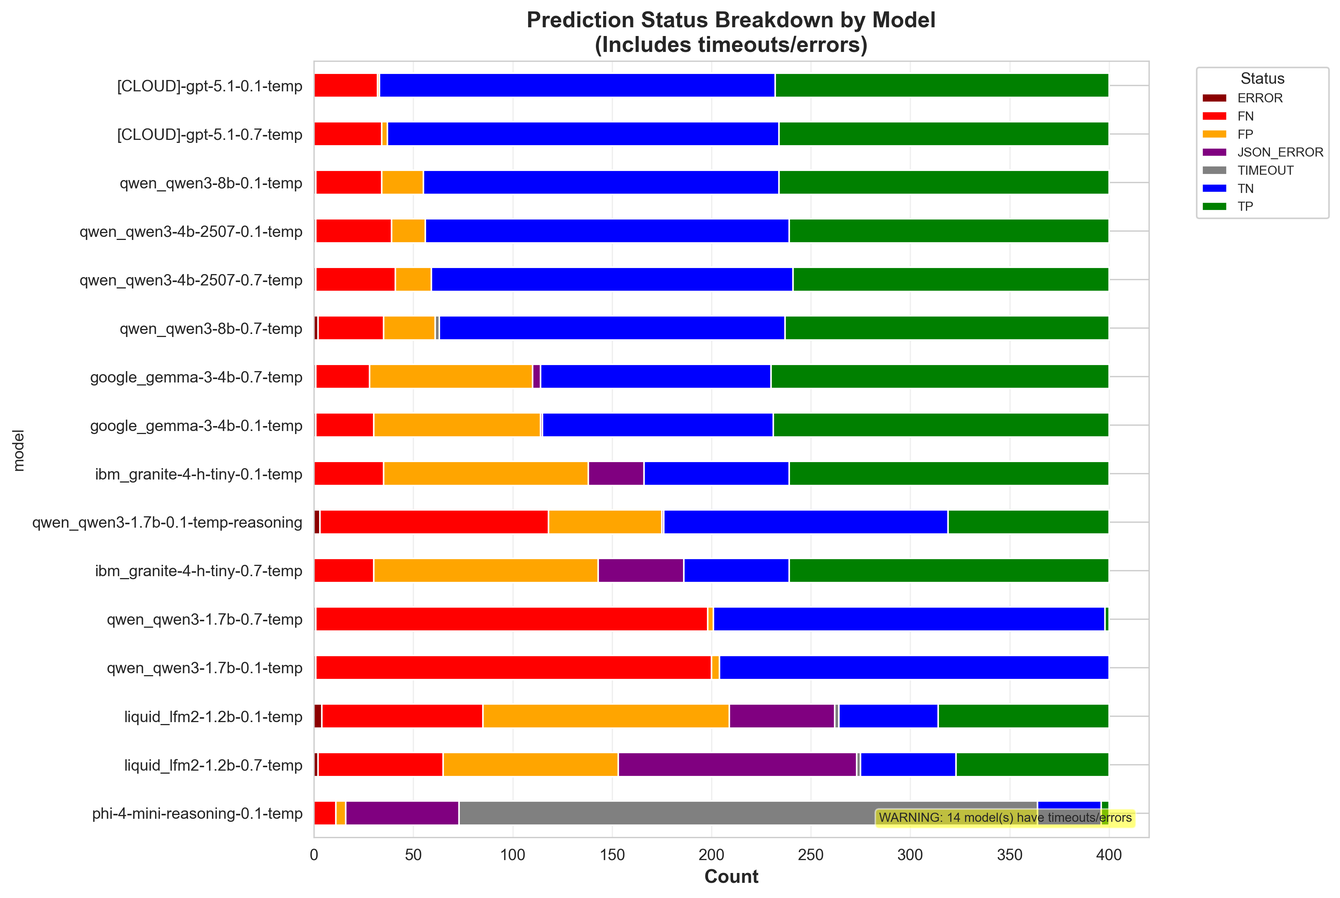
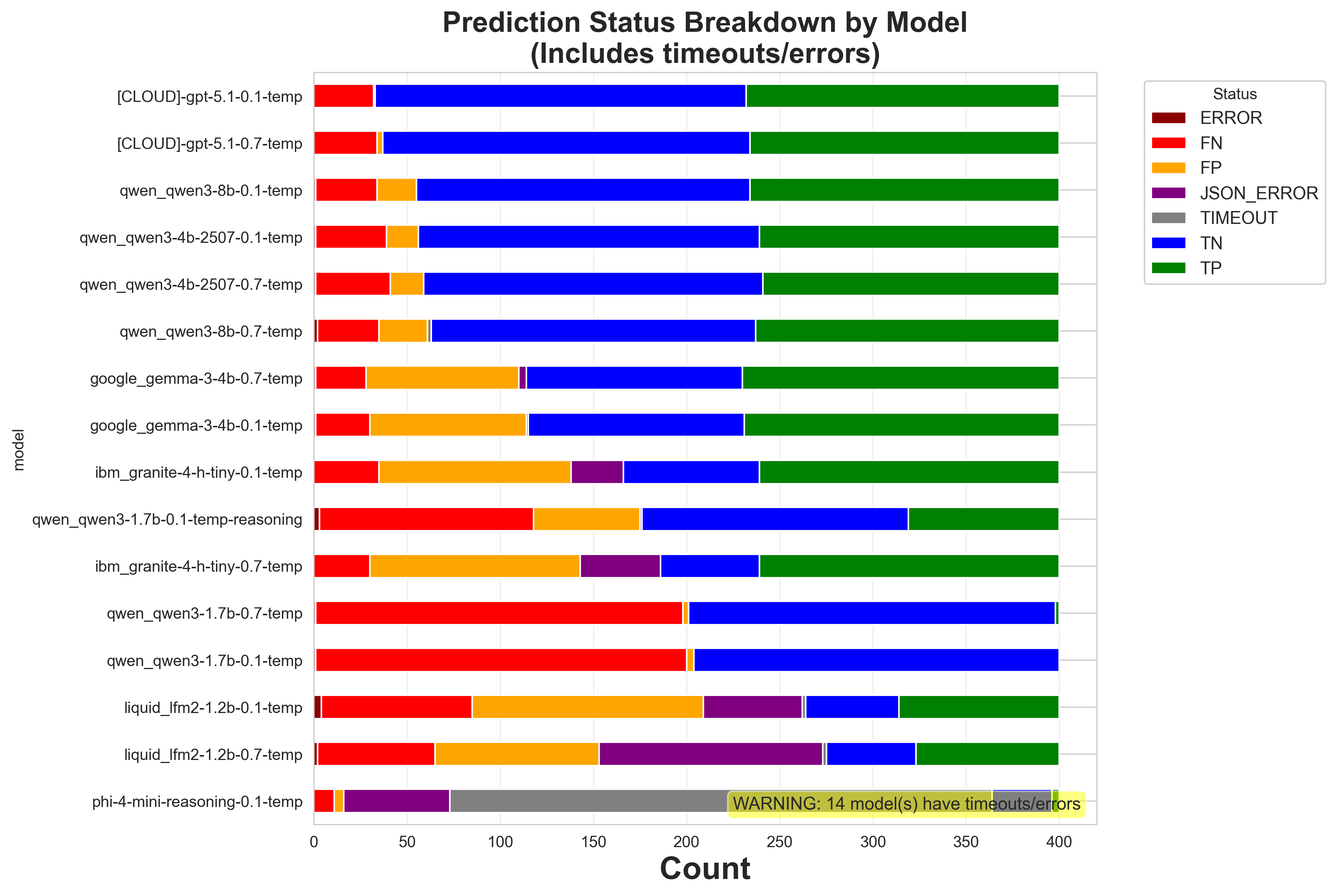
Increase font sizes across all visualizations for better readability

diff --git a/benchmark-analysis/analyze_benchmarks.py b/benchmark-analysis/analyze_benchmarks.py
@@ -414,9 +414,9 @@ def plot_accuracy_comparison(df: pd.DataFrame, output_dir: str, model_colors: Di
     bars = ax.barh(df_sorted['model'], accuracy_values, color=bar_colors, edgecolor='black', linewidth=0.5)
     for i, (idx, row) in enumerate(df_sorted.iterrows()):
         acc_val = accuracy_values.iloc[i]
-        ax.text(acc_val + 0.01, i, f"{acc_val:.2%}", va='center', fontsize=9)
-    ax.set_xlabel('Accuracy', fontsize=12, fontweight='bold')
-    ax.set_title('Overall Accuracy\n(Models ordered by bestness score)', fontsize=14, fontweight='bold')
+        ax.text(acc_val + 0.01, i, f"{acc_val:.2%}", va='center', fontsize=20)
+    ax.set_xlabel('Accuracy', fontsize=20, fontweight='bold')
+    ax.set_title('Overall Accuracy\n(Models ordered by bestness score)', fontsize=18, fontweight='bold')
     ax.set_xlim(0, max(1.1, accuracy_values.max() * 1.1))
     ax.grid(axis='x', alpha=0.3)
     plt.tight_layout()
@@ -439,12 +439,12 @@ def plot_accuracy_comparison(df: pd.DataFrame, output_dir: str, model_colors: Di
         recall_val = recall_values.loc[idx]
         ax.scatter(recall_val, prec_val, s=200, alpha=0.7, 
                    color=model_color, label=row['model'], edgecolors='black', linewidth=0.5)
-    ax.set_xlabel('Sensitivity (Recall)', fontsize=12, fontweight='bold')
-    ax.set_ylabel('Precision', fontsize=12, fontweight='bold')
-    ax.set_title('Precision vs Sensitivity (Recall)', fontsize=14, fontweight='bold')
+    ax.set_xlabel('Sensitivity (Recall)', fontsize=20, fontweight='bold')
+    ax.set_ylabel('Precision', fontsize=20, fontweight='bold')
+    ax.set_title('Precision vs Sensitivity (Recall)', fontsize=18, fontweight='bold')
     ax.set_xlim(0, 1)
     ax.set_ylim(0, 1)
-    ax.legend(bbox_to_anchor=(1.05, 1), loc='upper left', fontsize=8, framealpha=0.9, markerscale=0.6)
+    ax.legend(bbox_to_anchor=(1.05, 1), loc='upper left', fontsize=11, framealpha=0.9, markerscale=0.6)
     ax.grid(alpha=0.3)
     plt.tight_layout()
     plt.savefig(os.path.join(accuracy_dir, 'precision_vs_recall.png'), dpi=300, bbox_inches='tight')
@@ -465,9 +465,9 @@ def plot_accuracy_comparison(df: pd.DataFrame, output_dir: str, model_colors: Di
     bars = ax.barh(df_sorted_f1['model'], f1_values, color=bar_colors_f1, edgecolor='black', linewidth=0.5)
     for i, (idx, row) in enumerate(df_sorted_f1.iterrows()):
         f1_val = f1_values.iloc[i]
-        ax.text(f1_val + 0.01, i, f"{f1_val:.2%}", va='center', fontsize=9)
-    ax.set_xlabel('F1 Score', fontsize=12, fontweight='bold')
-    ax.set_title('F1 Score Comparison\n(Models ordered by bestness score)', fontsize=14, fontweight='bold')
+        ax.text(f1_val + 0.01, i, f"{f1_val:.2%}", va='center', fontsize=20)
+    ax.set_xlabel('F1 Score', fontsize=20, fontweight='bold')
+    ax.set_title('F1 Score Comparison\n(Models ordered by bestness score)', fontsize=18, fontweight='bold')
     ax.set_xlim(0, max(1.1, f1_values.max() * 1.1))
     ax.grid(axis='x', alpha=0.3)
     plt.tight_layout()
@@ -490,12 +490,12 @@ def plot_accuracy_comparison(df: pd.DataFrame, output_dir: str, model_colors: Di
         fnr_val = fnr_values.loc[idx]
         ax.scatter(fnr_val, fpr_val, s=200, alpha=0.7, 
                    color=model_color, label=row['model'], edgecolors='black', linewidth=0.5)
-    ax.set_xlabel('False Negative Rate (FNR)', fontsize=12, fontweight='bold')
-    ax.set_ylabel('False Positive Rate (FPR)', fontsize=12, fontweight='bold')
-    ax.set_title('Error Rates: FPR vs FNR', fontsize=14, fontweight='bold')
+    ax.set_xlabel('False Negative Rate (FNR)', fontsize=20, fontweight='bold')
+    ax.set_ylabel('False Positive Rate (FPR)', fontsize=20, fontweight='bold')
+    ax.set_title('Error Rates: FPR vs FNR', fontsize=18, fontweight='bold')
     ax.set_xlim(0, 1)
     ax.set_ylim(0, 1)
-    ax.legend(bbox_to_anchor=(1.05, 1), loc='upper left', fontsize=8, framealpha=0.9, ncol=1, markerscale=0.6)
+    ax.legend(bbox_to_anchor=(1.05, 1), loc='upper left', fontsize=11, framealpha=0.9, ncol=1, markerscale=0.6)
     ax.grid(alpha=0.3)
     plt.tight_layout()
     plt.savefig(os.path.join(accuracy_dir, 'fpr_vs_fnr.png'), dpi=300, bbox_inches='tight')
@@ -516,7 +516,7 @@ def plot_confusion_matrix_comparison(df: pd.DataFrame, output_dir: str):
     rows = (n_models + cols - 1) // cols  # Ceiling division
     
     fig, axes = plt.subplots(rows, cols, figsize=(5*cols, 5*rows))
-    fig.suptitle('Confusion Matrix Comparison\n(Models ordered by overall bestness score)', fontsize=16, fontweight='bold')
+    fig.suptitle('Confusion Matrix Comparison\n(Models ordered by overall bestness score)', fontsize=20, fontweight='bold')
     
     # Flatten axes array for easier iteration
     # Handle different return types from subplots (single axes, 1D array, or 2D array)
@@ -595,7 +595,7 @@ def plot_latency_comparison(df: pd.DataFrame, output_dir: str, model_colors: Dic
     outlier_models = df_sorted[df_sorted['avg_latency'] > outlier_threshold]
     if len(outlier_models) > 0:
         ax.text(0.98, 0.02, f'Note: {len(outlier_models)} model(s) have outlier latency', 
-                transform=ax.transAxes, fontsize=8, ha='right',
+                transform=ax.transAxes, fontsize=11, ha='right',
                 bbox=dict(boxstyle='round', facecolor='yellow', alpha=0.5))
     
     # Add value labels on bars
@@ -609,7 +609,7 @@ def plot_latency_comparison(df: pd.DataFrame, output_dir: str, model_colors: Dic
         # Position label at the end of the bar
         label_x = latency_val + max(0.05, max_latency * 0.02)
         ax.text(label_x, i, label, 
-               va='center', fontsize=9)
+               va='center', fontsize=20)
     
     plt.tight_layout()
     plt.savefig(os.path.join(output_dir, 'latency_comparison.png'), dpi=300, bbox_inches='tight')
@@ -642,7 +642,7 @@ def plot_repeatability_analysis(repeat_df: pd.DataFrame, output_dir: str, model_
         ax.set_xlim(x_min, x_max)
         ax.text(0.5, 0.5, 'Note: All models show zero variance\n(only 1 run per email in this benchmark)',
                 transform=ax.transAxes, ha='center', va='center',
-                bbox=dict(boxstyle='round', facecolor='wheat', alpha=0.5), fontsize=10)
+                bbox=dict(boxstyle='round', facecolor='wheat', alpha=0.5), fontsize=18)
     else:
         x_min = min(0, variance_by_model.min() * 1.1)
         x_max = variance_by_model.max() * 1.1
@@ -652,9 +652,9 @@ def plot_repeatability_analysis(repeat_df: pd.DataFrame, output_dir: str, model_
     bars = ax.barh(variance_by_model.index, variance_by_model.values, color=bar_colors, edgecolor='black', linewidth=0.5)
     for i, (idx, val) in enumerate(variance_by_model.items()):
         label_x = val + (x_max - x_min) * 0.01 if val >= 0 else val - (x_max - x_min) * 0.01
-        ax.text(label_x, i, f'{val:.4f}', va='center', fontsize=9)
-    ax.set_xlabel('Average Score Variance', fontsize=12, fontweight='bold')
-    ax.set_title('Consistency: Lower Variance = More Consistent', fontsize=14, fontweight='bold')
+        ax.text(label_x, i, f'{val:.4f}', va='center', fontsize=20)
+    ax.set_xlabel('Average Score Variance', fontsize=20, fontweight='bold')
+    ax.set_title('Consistency: Lower Variance = More Consistent', fontsize=18, fontweight='bold')
     ax.axvline(x=0, color='gray', linestyle='--', alpha=0.5)
     ax.grid(axis='x', alpha=0.3)
     plt.tight_layout()
@@ -670,10 +670,10 @@ def plot_repeatability_analysis(repeat_df: pd.DataFrame, output_dir: str, model_
     bar_colors = [model_colors.get(model, COLORS[0]) for model in consistency_by_model.index]
     bars = ax.barh(consistency_by_model.index, consistency_by_model.values, color=bar_colors, edgecolor='black', linewidth=0.5)
     for i, (idx, val) in enumerate(consistency_by_model.items()):
-        ax.text(val + 0.02, i, f'{val:.2f}', va='center', fontsize=9)
-    ax.set_xlabel('Average Reason Consistency', fontsize=12, fontweight='bold')
+        ax.text(val + 0.02, i, f'{val:.2f}', va='center', fontsize=20)
+    ax.set_xlabel('Average Reason Consistency', fontsize=20, fontweight='bold')
     ax.set_title('Reason Consistency: Percentage of runs with identical reasons\n(1.0 = same reasons every time, measures repeatability not correctness)', 
-                fontsize=14, fontweight='bold')
+                fontsize=18, fontweight='bold')
     ax.set_xlim(0, 1.1)
     ax.grid(axis='x', alpha=0.3)
     plt.tight_layout()
@@ -708,12 +708,12 @@ def plot_repeatability_analysis(repeat_df: pd.DataFrame, output_dir: str, model_
                label=f'{model} (Malicious)',
                color=model_color, alpha=0.9, edgecolor='black', linewidth=0.5, hatch='///')
     
-    ax.set_xlabel('Model', fontsize=12, fontweight='bold')
-    ax.set_ylabel('Average Score Mean', fontsize=12, fontweight='bold')
-    ax.set_title('Score Mean by Model and Email Type', fontsize=14, fontweight='bold')
+    ax.set_xlabel('Model', fontsize=20, fontweight='bold')
+    ax.set_ylabel('Average Score Mean', fontsize=20, fontweight='bold')
+    ax.set_title('Score Mean by Model and Email Type', fontsize=18, fontweight='bold')
     ax.set_xticks(x)
-    ax.set_xticklabels(models, rotation=45, ha='right')
-    ax.legend(bbox_to_anchor=(1.05, 1), loc='upper left', fontsize=7, framealpha=0.9, ncol=1)
+    ax.set_xticklabels(models, rotation=45, ha='right', fontsize=12)
+    ax.legend(bbox_to_anchor=(1.05, 1), loc='upper left', fontsize=18, framealpha=0.9, ncol=1)
     ax.grid(axis='y', alpha=0.3)
     plt.tight_layout()
     plt.savefig(os.path.join(repeatability_dir, 'score_mean_by_type.png'), dpi=300, bbox_inches='tight')
@@ -733,12 +733,12 @@ def plot_repeatability_analysis(repeat_df: pd.DataFrame, output_dir: str, model_
                    s=300, alpha=0.7, color=model_color, label=row['model'],
                    edgecolors='black', linewidth=1.5, zorder=5)
     
-    ax.set_xlabel('Average Score Variance\n(Lower = More Consistent Scores)', fontsize=12, fontweight='bold')
-    ax.set_ylabel('Average Reason Consistency\n(Higher = More Consistent Reasons)', fontsize=12, fontweight='bold')
+    ax.set_xlabel('Average Score Variance\n(Lower = More Consistent Scores)', fontsize=20, fontweight='bold')
+    ax.set_ylabel('Average Reason Consistency\n(Higher = More Consistent Reasons)', fontsize=20, fontweight='bold')
     ax.set_title('Consistency Trade-off: Score Variance vs Reason Consistency\n(Ideal: Low variance, High consistency)', 
-                fontsize=14, fontweight='bold')
+                fontsize=18, fontweight='bold')
     ax.grid(alpha=0.3)
-    ax.legend(bbox_to_anchor=(1.05, 1), loc='upper left', fontsize=8, framealpha=0.9, ncol=1, markerscale=0.6)
+    ax.legend(bbox_to_anchor=(1.05, 1), loc='upper left', fontsize=11, framealpha=0.9, ncol=1, markerscale=0.6)
     plt.tight_layout()
     plt.savefig(os.path.join(repeatability_dir, 'variance_vs_consistency.png'), dpi=300, bbox_inches='tight')
     plt.close()
@@ -770,12 +770,12 @@ def plot_radar_chart(df: pd.DataFrame, output_dir: str, model_colors: Dict[str, 
         ax.fill(angles, values, alpha=0.15, color=model_color)
     
     ax.set_xticks(angles[:-1])
-    ax.set_xticklabels([m.replace('_', ' ').title() for m in metrics_to_plot])
+    ax.set_xticklabels([m.replace('_', ' ').title() for m in metrics_to_plot], fontsize=12)
     ax.set_ylim(0, 1)
     ax.set_title('Multi-Metric Performance Comparison (Radar Chart)', 
                  size=14, fontweight='bold', pad=20)
     # Move legend further outside to avoid overlap
-    ax.legend(loc='upper right', bbox_to_anchor=(1.25, 1.0), fontsize=9, framealpha=0.9)
+    ax.legend(loc='upper right', bbox_to_anchor=(1.25, 1.0), fontsize=20, framealpha=0.9)
     ax.grid(True)
     
     plt.tight_layout(rect=[0, 0, 0.85, 1])  # Leave space on right for legend
@@ -813,27 +813,27 @@ def plot_latency_accuracy_tradeoff(df: pd.DataFrame, output_dir: str, model_colo
     
     # Add quadrant labels
     ax.text(0.02, 0.98, 'High Accuracy\nLow Latency\n(Ideal)', 
-           transform=ax.transAxes, fontsize=10, verticalalignment='top',
+           transform=ax.transAxes, fontsize=18, verticalalignment='top',
            bbox=dict(boxstyle='round', facecolor='lightgreen', alpha=0.3))
     ax.text(0.98, 0.98, 'High Accuracy\nHigh Latency', 
-           transform=ax.transAxes, fontsize=10, verticalalignment='top', horizontalalignment='right',
+           transform=ax.transAxes, fontsize=18, verticalalignment='top', horizontalalignment='right',
            bbox=dict(boxstyle='round', facecolor='lightyellow', alpha=0.3))
     ax.text(0.02, 0.02, 'Low Accuracy\nLow Latency', 
-           transform=ax.transAxes, fontsize=10, verticalalignment='bottom',
+           transform=ax.transAxes, fontsize=18, verticalalignment='bottom',
            bbox=dict(boxstyle='round', facecolor='lightblue', alpha=0.3))
     ax.text(0.98, 0.02, 'Low Accuracy\nHigh Latency\n(Worst)', 
-           transform=ax.transAxes, fontsize=10, verticalalignment='bottom', horizontalalignment='right',
+           transform=ax.transAxes, fontsize=18, verticalalignment='bottom', horizontalalignment='right',
            bbox=dict(boxstyle='round', facecolor='lightcoral', alpha=0.3))
     
-    ax.set_xlabel('Average Latency (seconds)', fontsize=12, fontweight='bold')
-    ax.set_ylabel('Accuracy', fontsize=12, fontweight='bold')
+    ax.set_xlabel('Average Latency (seconds)', fontsize=20, fontweight='bold')
+    ax.set_ylabel('Accuracy', fontsize=20, fontweight='bold')
     title = 'Latency vs Accuracy Tradeoff'
     if 'total_error_rate' in df.columns:
         title += '\n(Models with high error rates shown with reduced opacity)'
-    ax.set_title(title, fontsize=14, fontweight='bold', pad=20)
+    ax.set_title(title, fontsize=18, fontweight='bold', pad=20)
     ax.grid(alpha=0.3)
     # Move legend outside to avoid overlapping
-    ax.legend(bbox_to_anchor=(1.05, 1), loc='upper left', fontsize=8, framealpha=0.9, 
+    ax.legend(bbox_to_anchor=(1.05, 1), loc='upper left', fontsize=11, framealpha=0.9, 
              ncol=1, frameon=True, markerscale=0.6)
     
     plt.tight_layout()
@@ -903,12 +903,12 @@ def plot_quadrant_analysis(df: pd.DataFrame, output_dir: str, model_colors: Dict
     ax.fill_between([latency_threshold, xlim[1]], ylim[0], accuracy_threshold, 
                     alpha=0.1, color='red', label='Worst Quadrant')
     
-    ax.set_xlabel('Average Latency (seconds)', fontsize=12, fontweight='bold')
-    ax.set_ylabel('Accuracy', fontsize=12, fontweight='bold')
-    ax.set_title('Quadrant Analysis: Accuracy vs Latency', fontsize=14, fontweight='bold', pad=20)
+    ax.set_xlabel('Average Latency (seconds)', fontsize=20, fontweight='bold')
+    ax.set_ylabel('Accuracy', fontsize=20, fontweight='bold')
+    ax.set_title('Quadrant Analysis: Accuracy vs Latency', fontsize=18, fontweight='bold', pad=20)
     ax.grid(alpha=0.3, zorder=0)
     # Legend shows all models (no annotations on points) - moved outside
-    ax.legend(bbox_to_anchor=(1.05, 1), loc='upper left', fontsize=8, framealpha=0.9, 
+    ax.legend(bbox_to_anchor=(1.05, 1), loc='upper left', fontsize=11, framealpha=0.9, 
              ncol=1, columnspacing=1, handletextpad=0.5, markerscale=0.6)
     
     plt.tight_layout()
@@ -981,9 +981,9 @@ def plot_metrics_heatmap(df: pd.DataFrame, output_dir: str):
                 cbar_kws={'label': 'Performance (normalized for color, raw values shown)'}, fmt='.3f', 
                 annot_kws={'size': 9})
     ax.set_title('Comprehensive Metrics Heatmap\n(Actual values shown, color indicates performance)', 
-                 fontsize=12, fontweight='bold', pad=10)
-    ax.set_xlabel('Metrics', fontsize=10)
-    ax.set_ylabel('Models', fontsize=10)
+                 fontsize=20, fontweight='bold', pad=10)
+    ax.set_xlabel('Metrics', fontsize=18)
+    ax.set_ylabel('Models', fontsize=18)
     
     plt.tight_layout()
     plt.savefig(os.path.join(output_dir, 'metrics_heatmap.png'), dpi=300, bbox_inches='tight')
@@ -1042,19 +1042,19 @@ def plot_pareto_frontier(df: pd.DataFrame, output_dir: str, model_colors: Dict[s
         ax.axvspan(0, best_point[0], alpha=0.1, color='green', label='Efficient Region')
         ax.axhspan(best_point[1], 1, alpha=0.1, color='green')
     
-    ax.set_xlabel('Average Latency (seconds)', fontsize=12, fontweight='bold')
-    ax.set_ylabel('Accuracy', fontsize=12, fontweight='bold')
+    ax.set_xlabel('Average Latency (seconds)', fontsize=20, fontweight='bold')
+    ax.set_ylabel('Accuracy', fontsize=20, fontweight='bold')
     ax.set_title('Pareto Frontier: Efficiency Analysis\n(Points on frontier are not dominated)', 
-                fontsize=14, fontweight='bold', pad=20)
+                fontsize=18, fontweight='bold', pad=20)
     ax.grid(alpha=0.3)
     # Move legend outside to avoid overlapping with description text
-    ax.legend(bbox_to_anchor=(1.05, 1), loc='upper left', fontsize=8, framealpha=0.9, 
+    ax.legend(bbox_to_anchor=(1.05, 1), loc='upper left', fontsize=11, framealpha=0.9, 
              ncol=1, columnspacing=1, markerscale=0.6)
     
     # Add text explaining Pareto frontier - move to lower left to avoid legend
     ax.text(0.02, 0.15, 
            'Pareto Frontier: Models where no other model\nhas both lower latency AND higher accuracy',
-           transform=ax.transAxes, fontsize=9, verticalalignment='bottom',
+           transform=ax.transAxes, fontsize=20, verticalalignment='bottom',
            bbox=dict(boxstyle='round', facecolor='wheat', alpha=0.7))
     
     plt.tight_layout()
@@ -1097,12 +1097,12 @@ def plot_per_email_statistics(per_email_df: pd.DataFrame, output_dir: str, model
         ax.hist(incorrect_scores, alpha=0.5, label=f'{model} (Incorrect)', bins=score_bins,
                 edgecolor='black', linewidth=0.5, color=darker_color, hatch='///', align='mid')
     
-    ax.set_xlabel('Score (0-100)', fontsize=12, fontweight='bold')
-    ax.set_ylabel('Frequency', fontsize=12, fontweight='bold')
+    ax.set_xlabel('Score (0-100)', fontsize=20, fontweight='bold')
+    ax.set_ylabel('Frequency', fontsize=20, fontweight='bold')
     ax.set_title('Score Distribution: Correct vs Incorrect Predictions\n(Shows model calibration)', 
-                fontsize=14, fontweight='bold')
+                fontsize=18, fontweight='bold')
     ax.set_xlim(*get_score_axis_limits())
-    ax.legend(bbox_to_anchor=(1.05, 1), loc='upper left', fontsize=8, ncol=1, framealpha=0.9)
+    ax.legend(bbox_to_anchor=(1.05, 1), loc='upper left', fontsize=11, ncol=1, framealpha=0.9)
     ax.grid(alpha=0.3, axis='y')
     plt.tight_layout()
     plt.savefig(os.path.join(per_email_dir, 'score_dist_correct_incorrect.png'), dpi=300, bbox_inches='tight')
@@ -1117,11 +1117,11 @@ def plot_per_email_statistics(per_email_df: pd.DataFrame, output_dir: str, model
         model_color = model_colors.get(model, COLORS[0])
         ax.hist(model_scores, alpha=0.5, label=model, bins=score_bins, 
                 edgecolor='black', linewidth=0.5, align='mid', color=model_color)
-    ax.set_xlabel('Score (0-100)', fontsize=12, fontweight='bold')
-    ax.set_ylabel('Frequency', fontsize=12, fontweight='bold')
-    ax.set_title('Score Distribution by Model', fontsize=14, fontweight='bold')
+    ax.set_xlabel('Score (0-100)', fontsize=20, fontweight='bold')
+    ax.set_ylabel('Frequency', fontsize=20, fontweight='bold')
+    ax.set_title('Score Distribution by Model', fontsize=18, fontweight='bold')
     ax.set_xlim(*get_score_axis_limits())
-    ax.legend(bbox_to_anchor=(1.05, 1), loc='upper left', fontsize=8, framealpha=0.9)
+    ax.legend(bbox_to_anchor=(1.05, 1), loc='upper left', fontsize=11, framealpha=0.9)
     ax.grid(alpha=0.3, axis='y')
     plt.tight_layout()
     plt.savefig(os.path.join(per_email_dir, 'score_dist_by_model.png'), dpi=300, bbox_inches='tight')
@@ -1147,10 +1147,10 @@ def plot_per_email_statistics(per_email_df: pd.DataFrame, output_dir: str, model
     colors = [status_colors.get(status, 'lightgray') for status in all_statuses]
     
     status_counts.plot(kind='barh', stacked=True, ax=ax, color=colors)
-    ax.set_xlabel('Count', fontsize=12, fontweight='bold')
+    ax.set_xlabel('Count', fontsize=20, fontweight='bold')
     ax.set_title('Prediction Status Breakdown by Model\n(Includes timeouts/errors)', 
-                fontsize=14, fontweight='bold')
-    ax.legend(title='Status', bbox_to_anchor=(1.05, 1), loc='upper left', fontsize=8, framealpha=0.9)
+                fontsize=18, fontweight='bold')
+    ax.legend(title='Status', bbox_to_anchor=(1.05, 1), loc='upper left', fontsize=11, framealpha=0.9)
     ax.grid(axis='x', alpha=0.3)
     
     error_statuses = ['TIMEOUT', 'JSON_ERROR', 'ERROR']
@@ -1159,7 +1159,7 @@ def plot_per_email_statistics(per_email_df: pd.DataFrame, output_dir: str, model
         error_models = per_email_df[per_email_df['status'].isin(error_statuses)]['model'].unique()
         if len(error_models) > 0:
             ax.text(0.98, 0.02, f'WARNING: {len(error_models)} model(s) have timeouts/errors', 
-                    transform=ax.transAxes, fontsize=8, ha='right',
+                    transform=ax.transAxes, fontsize=11, ha='right',
                     bbox=dict(boxstyle='round', facecolor='yellow', alpha=0.5))
     plt.tight_layout()
     plt.savefig(os.path.join(per_email_dir, 'status_breakdown.png'), dpi=300, bbox_inches='tight')
@@ -1175,11 +1175,11 @@ def plot_per_email_statistics(per_email_df: pd.DataFrame, output_dir: str, model
         model_color = model_colors.get(model, COLORS[0])
         ax.hist(model_durations, alpha=0.5, label=model, bins=duration_bins, 
                 edgecolor='black', linewidth=0.5, align='mid', color=model_color)
-    ax.set_xlabel('Inference Duration (seconds)', fontsize=12, fontweight='bold')
-    ax.set_ylabel('Frequency', fontsize=12, fontweight='bold')
-    ax.set_title('Inference Duration Distribution by Model', fontsize=14, fontweight='bold')
+    ax.set_xlabel('Inference Duration (seconds)', fontsize=20, fontweight='bold')
+    ax.set_ylabel('Frequency', fontsize=20, fontweight='bold')
+    ax.set_title('Inference Duration Distribution by Model', fontsize=18, fontweight='bold')
     ax.set_xlim(duration_bins[0], duration_bins[-1] - DURATION_BIN_WIDTH)
-    ax.legend(bbox_to_anchor=(1.05, 1), loc='upper left', fontsize=8, framealpha=0.9)
+    ax.legend(bbox_to_anchor=(1.05, 1), loc='upper left', fontsize=11, framealpha=0.9)
     ax.grid(alpha=0.3, axis='y')
     plt.tight_layout()
     plt.savefig(os.path.join(per_email_dir, 'duration_distribution.png'), dpi=300, bbox_inches='tight')
@@ -1221,13 +1221,13 @@ def plot_reason_consistency_by_type(repeat_df: pd.DataFrame, output_dir: str, mo
                label='Benign' if i == 0 else '', edgecolor='black', linewidth=0.5)
         ax.bar(x[i] + width/2, malicious_val, width, color=model_color, alpha=0.9, 
                label='Malicious' if i == 0 else '', edgecolor='black', linewidth=0.5)
-    ax.set_xlabel('Model', fontsize=12, fontweight='bold')
-    ax.set_ylabel('Average Reason Consistency', fontsize=12, fontweight='bold')
-    ax.set_title('Reason Consistency: Benign vs Malicious Emails', fontsize=14, fontweight='bold')
+    ax.set_xlabel('Model', fontsize=20, fontweight='bold')
+    ax.set_ylabel('Average Reason Consistency', fontsize=20, fontweight='bold')
+    ax.set_title('Reason Consistency: Benign vs Malicious Emails', fontsize=18, fontweight='bold')
     ax.set_xticks(x)
-    ax.set_xticklabels(models, rotation=45, ha='right')
+    ax.set_xticklabels(models, rotation=45, ha='right', fontsize=12)
     ax.set_ylim(0, 1.1)
-    ax.legend(title='Email Type', bbox_to_anchor=(1.05, 1), loc='upper left', fontsize=9, framealpha=0.9)
+    ax.legend(title='Email Type', bbox_to_anchor=(1.05, 1), loc='upper left', fontsize=20, framealpha=0.9)
     ax.grid(axis='y', alpha=0.3)
     plt.tight_layout()
     plt.savefig(os.path.join(repeatability_dir, 'consistency_by_type.png'), dpi=300, bbox_inches='tight')
@@ -1248,12 +1248,12 @@ def plot_reason_consistency_by_type(repeat_df: pd.DataFrame, output_dir: str, mo
                label='Benign' if i == 0 else '', edgecolor='black', linewidth=0.5)
         ax.bar(x[i] + width/2, malicious_val, width, color=model_color, alpha=0.9, 
                label='Malicious' if i == 0 else '', edgecolor='black', linewidth=0.5)
-    ax.set_xlabel('Model', fontsize=12, fontweight='bold')
-    ax.set_ylabel('Average Score Variance', fontsize=12, fontweight='bold')
-    ax.set_title('Score Variance: Benign vs Malicious Emails', fontsize=14, fontweight='bold')
+    ax.set_xlabel('Model', fontsize=20, fontweight='bold')
+    ax.set_ylabel('Average Score Variance', fontsize=20, fontweight='bold')
+    ax.set_title('Score Variance: Benign vs Malicious Emails', fontsize=18, fontweight='bold')
     ax.set_xticks(x)
-    ax.set_xticklabels(models, rotation=45, ha='right')
-    ax.legend(title='Email Type', bbox_to_anchor=(1.05, 1), loc='upper left', fontsize=9, framealpha=0.9)
+    ax.set_xticklabels(models, rotation=45, ha='right', fontsize=12)
+    ax.legend(title='Email Type', bbox_to_anchor=(1.05, 1), loc='upper left', fontsize=20, framealpha=0.9)
     ax.grid(axis='y', alpha=0.3)
     plt.tight_layout()
     plt.savefig(os.path.join(repeatability_dir, 'variance_by_type.png'), dpi=300, bbox_inches='tight')
@@ -1364,16 +1364,16 @@ def plot_temperature_impact(df: pd.DataFrame, output_dir: str, model_colors: Dic
                 if val > 0:  # Only label if there's data
                     height = bar.get_height()
                     ax.text(bar.get_x() + bar.get_width()/2., height,
-                           f'{val:.2f}', ha='center', va='bottom', fontsize=8)
+                           f'{val:.2f}', ha='center', va='bottom', fontsize=11)
         
-        ax.set_xlabel('Model', fontsize=12, fontweight='bold')
-        ax.set_ylabel(ylabel, fontsize=12, fontweight='bold')
-        ax.set_title(title, fontsize=14, fontweight='bold')
+        ax.set_xlabel('Model', fontsize=20, fontweight='bold')
+        ax.set_ylabel(ylabel, fontsize=20, fontweight='bold')
+        ax.set_title(title, fontsize=18, fontweight='bold')
         ax.set_xticks(x)
-        ax.set_xticklabels(models, rotation=45, ha='right', fontsize=9)
+        ax.set_xticklabels(models, rotation=45, ha='right', fontsize=12)
         ax.set_ylim(0, 1.05)  # Consistent 0-1 y-axis
         ax.grid(axis='y', alpha=0.3)
-        ax.legend(bbox_to_anchor=(1.05, 1), loc='upper left', fontsize=9, framealpha=0.9)
+        ax.legend(bbox_to_anchor=(1.05, 1), loc='upper left', fontsize=20, framealpha=0.9)
         plt.tight_layout()
         plt.savefig(os.path.join(temperature_dir, filename), dpi=300, bbox_inches='tight')
         plt.close()
